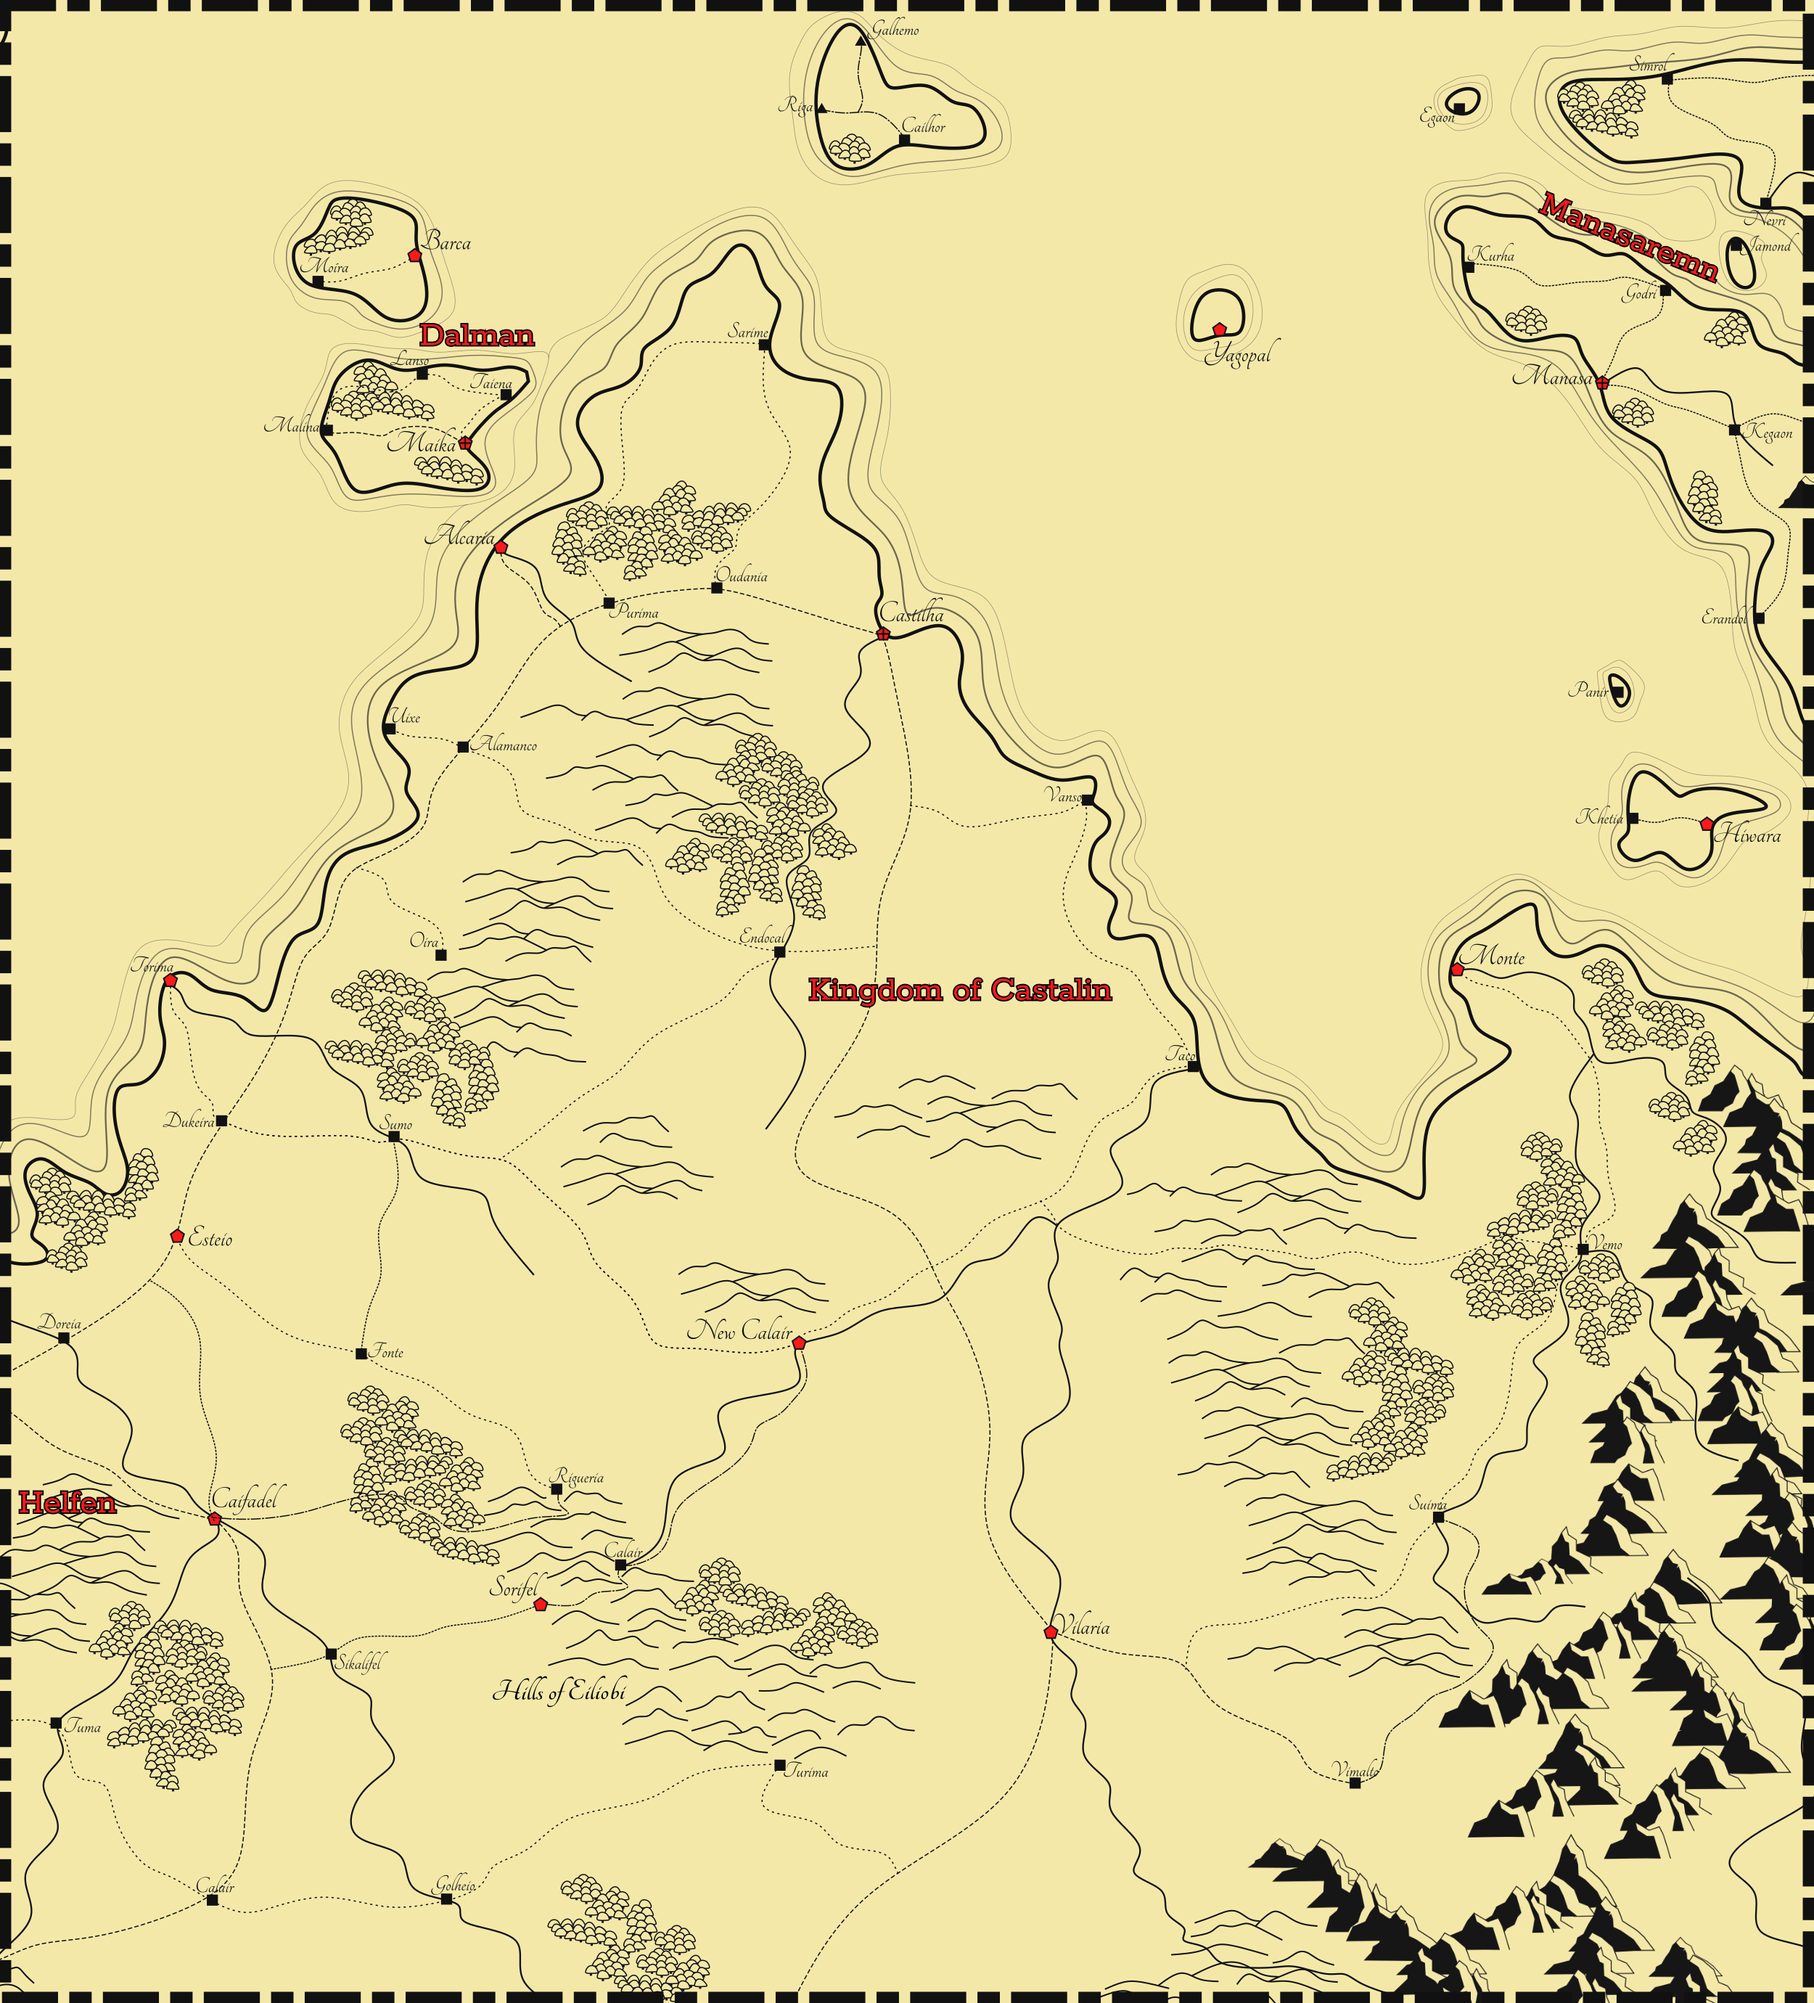
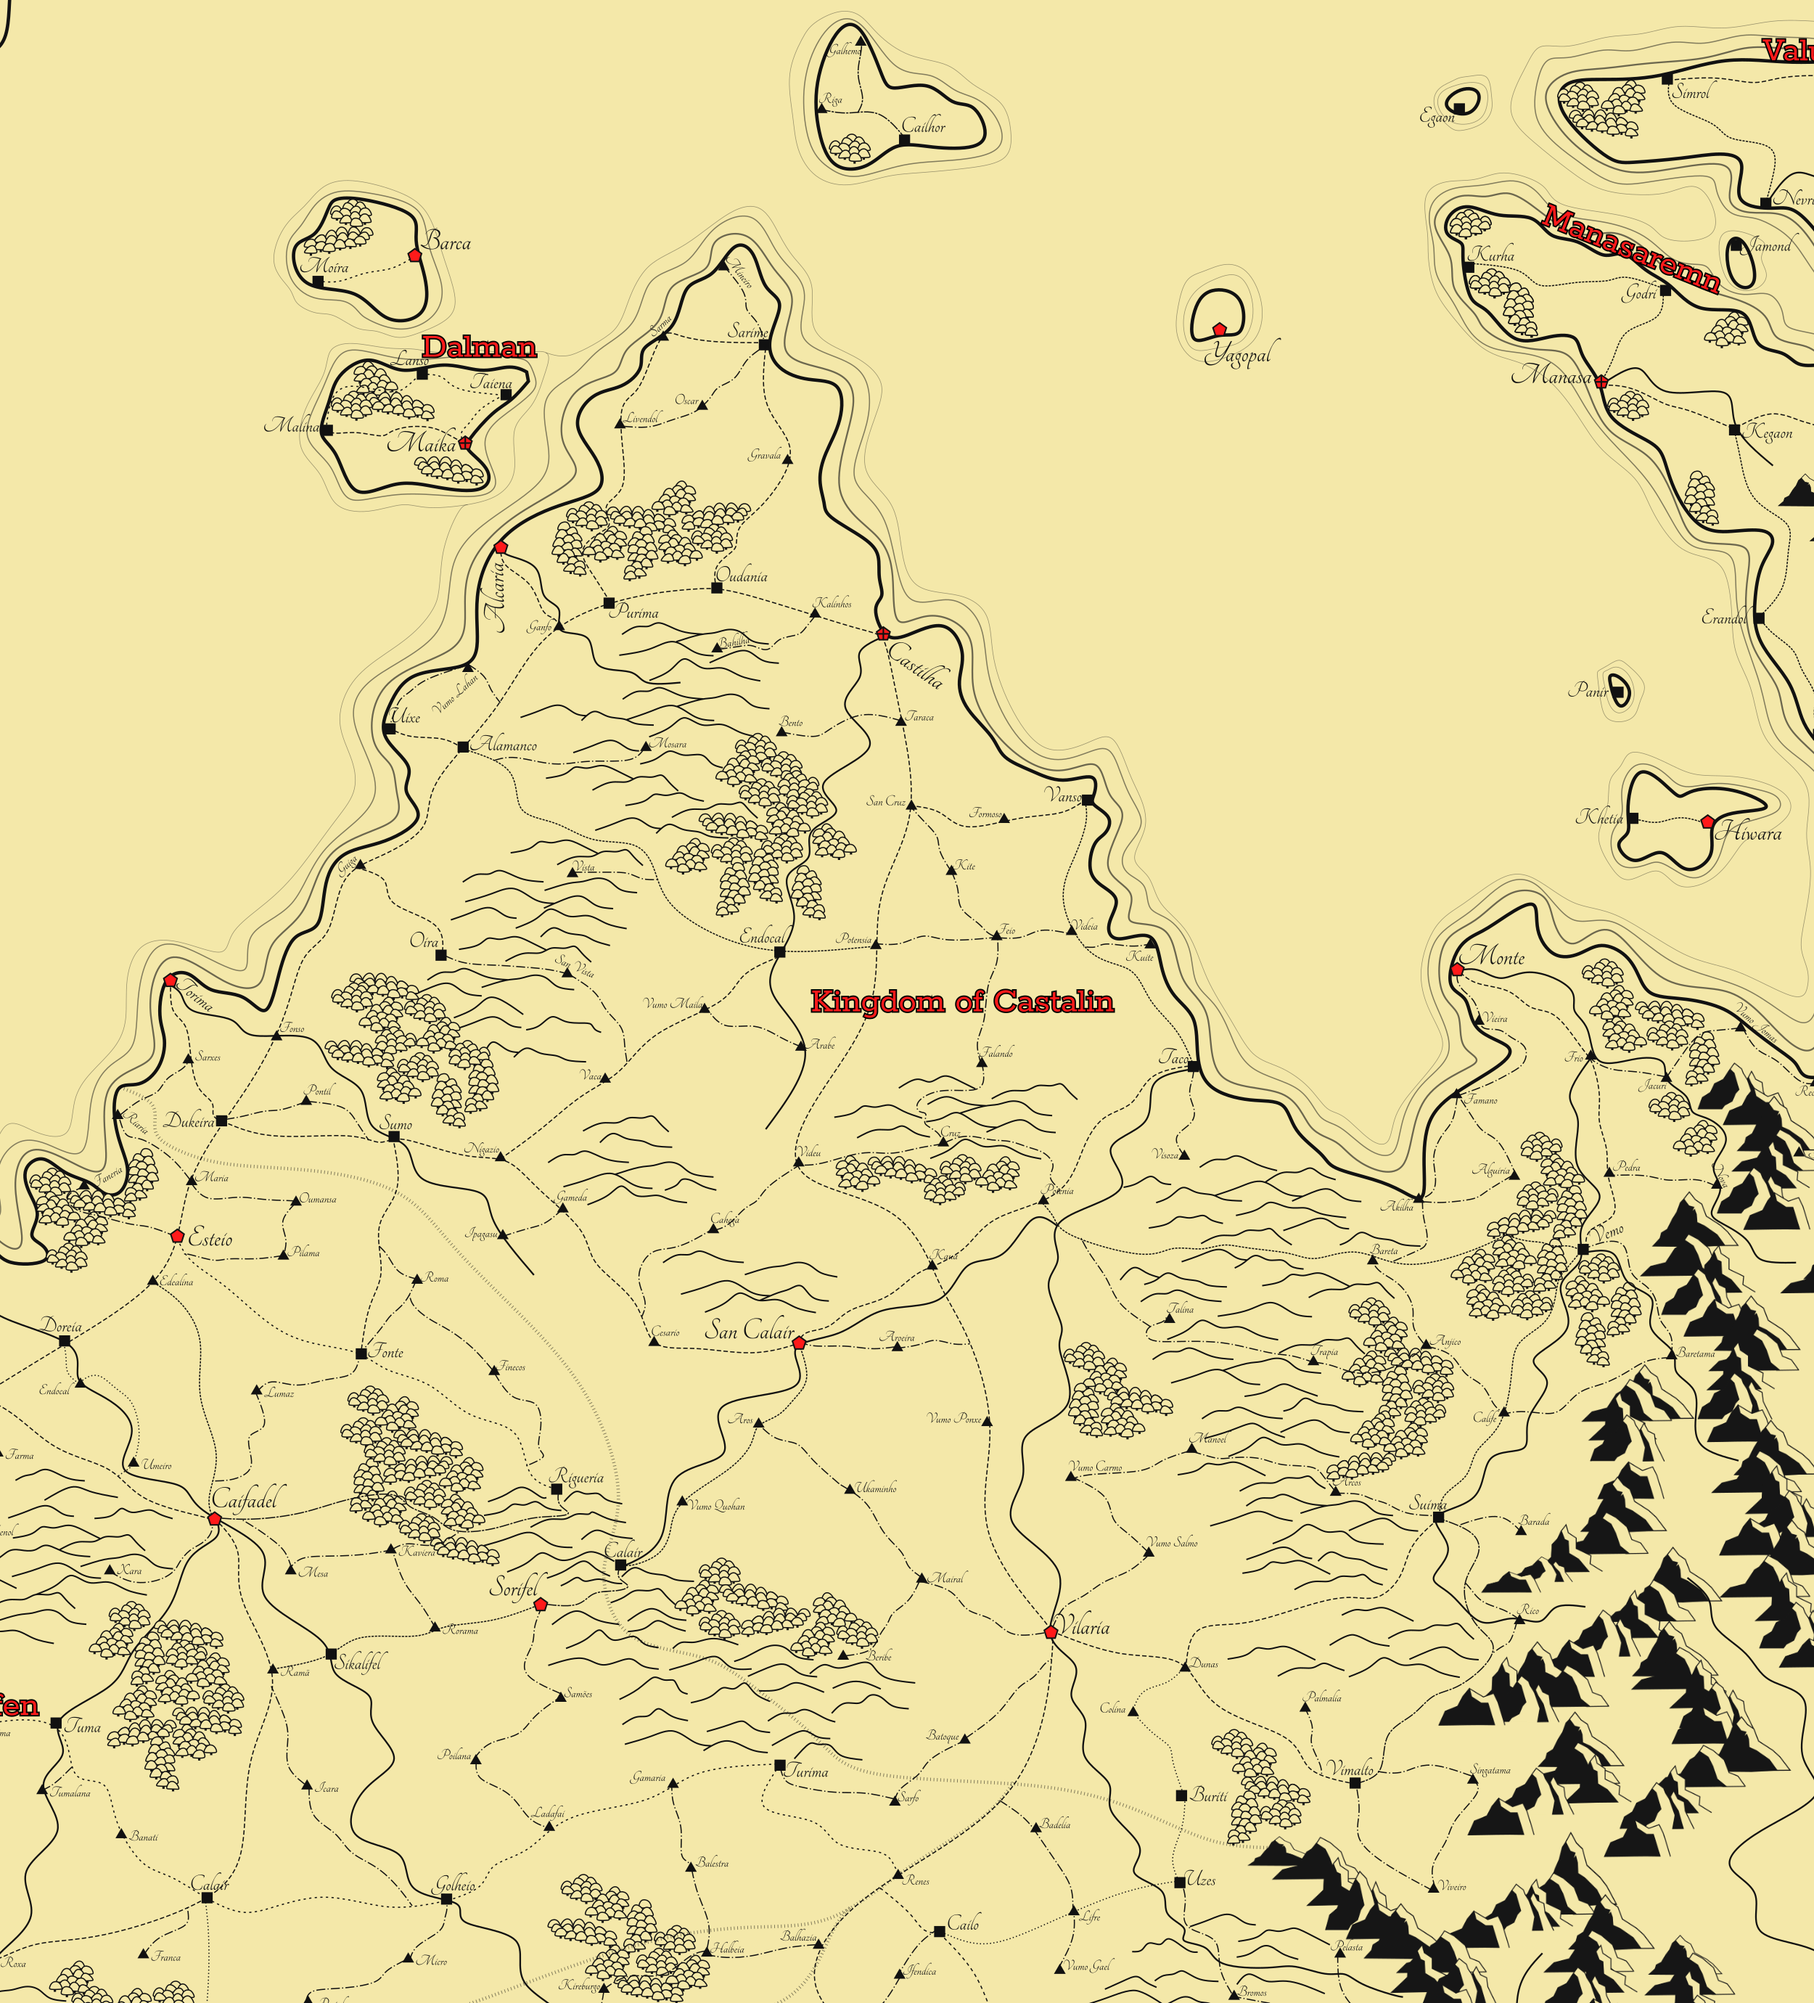
Quartz sync: Apr 3, 2025, 9:20 AM

diff --git a/content/Geography/Castalin.md b/content/Geography/Castalin.md
@@ -1,3 +1,54 @@
 Castalin is a state in the north of The Beak with capital in Castilha. It is one of the strongest states and armies of [[The Four Crowns]] and a great exporter of prestige Wine.
 
 ![[Castalin.png]]
+
+- Cities
+	- Castilha (Capital) pop. 158k
+	- Alcaria pop. 98k
+	- Vilaria pop. 56k
+	- San Calair pop. 33k
+	- Torima pop. 28k
+	- Monte pop. 22k
+- Towns
+	- Sarime
+	- Purima
+	- Oudania
+	- Buriti
+	- Cailhor
+	- Sumo
+	- Uixe
+	- Vemo
+	- Suima
+	- Vanso
+	- Uixe
+	- Vimalto
+	- Taco
+	- Oira
+	- Endocal
+	- Sumo
+	- Calair
+
+9655.97 mm2
+
+23.217mm = 100km
+x = 1km
+
+1km = 0.23217mm
+
+1/x = 0.23217
+
+x = 4.307188
+
+9655.97mm² = xkm²
+
+1mile² = 2.58999km²
+xmile² = 1km²
+
+2.58999km² - 30
+1km² - x
+x = 11.58 ~ 12 = 20 min density per km²
+x = 46.33 ~ 46 = 50 max density per km²
+
+sparse 20-30
+populated 30-50
+dense 40-55

diff --git a/content/The Four Crowns.md b/content/The Four Crowns.md
@@ -1,0 +1,3 @@
+After the Fall of Malkain circa 800 years ago there was a period of great instability, the War of One Hundred Years, when the houses of the old empire fought for control and power over the fractured remnants of Malkain. The countries that formed after this period are known as the Malkani States, those being Castalin, Helfen, Jumanor, Tarin, Dalman, Jarenen, Valelhandir, and Elmandor.
+
+Over time the states of [[Castalin]], [[Helfen]], [[Jumanor]], and [[Tarin]], all in the central region of Hallen, a land with fertile soils and plenty of natural resources, established themselves as the most powerful states of Hallen. Because they all claim to possess the original crown of the old emperor, they became known as the Four Crowns of Malkain, or simply the Four Crowns.

diff --git a/content/Helfen.md b/content/Helfen.md
@@ -1,0 +1,3 @@
+
+
+![[Helfen.png]]
